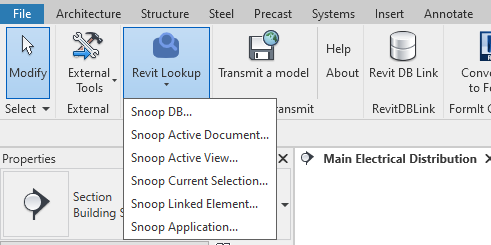
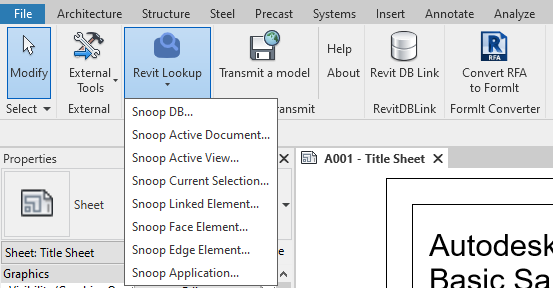
Add Support Snoop Face, Edge Element

diff --git a/RevitLookup/Commands/SnoopFaceCommand.cs b/RevitLookup/Commands/SnoopFaceCommand.cs
@@ -1,0 +1,49 @@
+/*
+ * Created By WeiGan 2021.9.9
+ * 
+ */
+
+using Autodesk.Revit.Attributes;
+using Autodesk.Revit.DB;
+using Autodesk.Revit.UI;
+using Autodesk.Revit.UI.Selection;
+using RevitLookupWpf.View;
+using OperationCanceledException = Autodesk.Revit.Exceptions.OperationCanceledException;
+
+namespace RevitLookupWpf.Commands
+{
+    [RvtCommandInfo(Name = "Snoop Face", Image = "search.png")]
+    [Transaction(TransactionMode.Manual)]
+    public class SnoopFaceCommand : RvtCommandBase
+    {
+        public override Result SnoopClick(ExternalCommandData commandData, ref string message, ElementSet elements)
+        {
+            if (commandData.Application.ActiveUIDocument == null)
+            {
+                message = Resource.NoActiveDocument;
+                return Result.Cancelled;
+            }
+
+            try
+            {
+                var windowHandle = commandData.Application.MainWindowHandle;
+                var lookupWindow = new LookupWindow(windowHandle);
+                var refElem = commandData.Application.ActiveUIDocument.Selection.PickObject(ObjectType.Face);
+                var geometryObject = commandData.Application.ActiveUIDocument.Document.GetElement(refElem)
+                    .GetGeometryObjectFromReference(refElem);
+                lookupWindow.SetRvtInstance(geometryObject);
+                lookupWindow.Show();
+            }
+            catch (OperationCanceledException)
+            {
+                //ignore user press esc
+            }
+            catch (Exception e)
+            {
+                throw new ArgumentException(e.ToString());
+            }
+
+            return Result.Succeeded;
+        }
+    }
+}

diff --git a/RevitLookup/Commands/SnoopEdgeCommand.cs b/RevitLookup/Commands/SnoopEdgeCommand.cs
@@ -1,0 +1,48 @@
+/*
+ * Created By WeiGan 2021.9.9
+ * 
+ */
+
+using Autodesk.Revit.Attributes;
+using Autodesk.Revit.DB;
+using Autodesk.Revit.UI;
+using Autodesk.Revit.UI.Selection;
+using RevitLookupWpf.View;
+using OperationCanceledException = Autodesk.Revit.Exceptions.OperationCanceledException;
+
+namespace RevitLookupWpf.Commands
+{
+    [RvtCommandInfo(Name = "Snoop Edge", Image = "search.png")]
+    [Transaction(TransactionMode.Manual)]
+    public class SnoopEdgeCommand : RvtCommandBase
+    {
+        public override Result SnoopClick(ExternalCommandData commandData, ref string message, ElementSet elements)
+        {
+            if (commandData.Application.ActiveUIDocument == null)
+            {
+                message = Resource.NoActiveDocument;
+                return Result.Cancelled;
+            }
+
+            try
+            {                
+                var windowHandle = commandData.Application.MainWindowHandle;
+                var lookupWindow = new LookupWindow(windowHandle);
+                var refElem = commandData.Application.ActiveUIDocument.Selection.PickObject(ObjectType.Edge);
+                var geometryObject = commandData.Application.ActiveUIDocument.Document.GetElement(refElem).GetGeometryObjectFromReference(refElem);
+                lookupWindow.SetRvtInstance(geometryObject);
+                lookupWindow.Show();
+            }
+            catch (OperationCanceledException)
+            {
+                //ignore user press esc
+            }
+            catch (Exception e)
+            {
+                throw new ArgumentException(e.ToString());
+            }
+
+            return Result.Succeeded;
+        }
+    }
+}

diff --git a/RevitLookup/RvtAddin.cs b/RevitLookup/RvtAddin.cs
@@ -57,6 +57,8 @@ namespace RevitLookupWpf
             AddPushButton(pulldownButton, typeof(SnoopActiveViewCommand), "Snoop Active View...");
             AddPushButton(pulldownButton, typeof(SnoopCurrentSelectionCommand), "Snoop Current Selection...");
             AddPushButton(pulldownButton, typeof(SnoopLinkedElementCommand), "Snoop Linked Element...");
+            AddPushButton(pulldownButton, typeof(SnoopFaceCommand), "Snoop Face Element...");
+            AddPushButton(pulldownButton, typeof(SnoopEdgeCommand), "Snoop Edge Element...");
             AddPushButton(pulldownButton, typeof(SnoopApplicationCommand), "Snoop Application...");
         }
 
